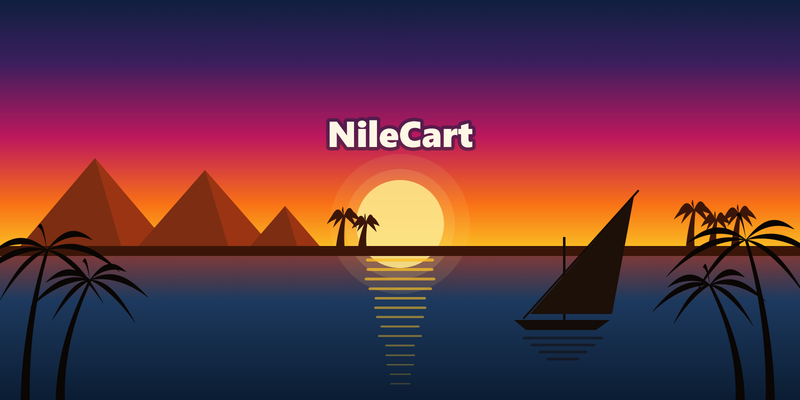
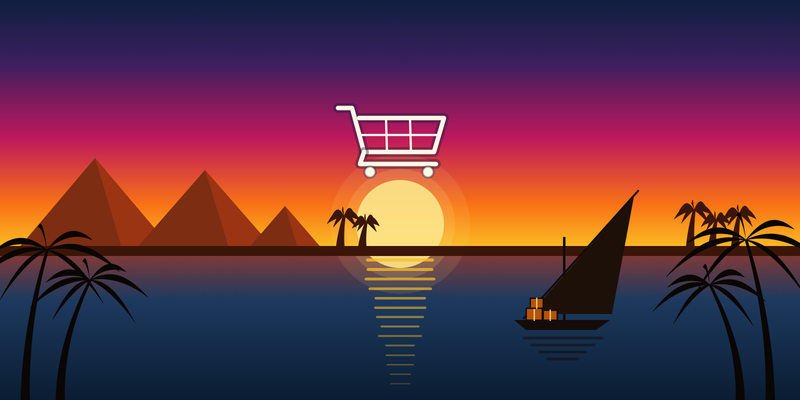
Kaggle cover: a shopping cart over the sun instead of text, parcels on the felucca

Changed region(s): [[0.4062, 0.24, 0.5938, 0.45], [0.6562, 0.72, 0.7188, 0.81]]

diff --git a/build/make_dataset_metadata.py b/build/make_dataset_metadata.py
@@ -206,17 +206,28 @@ def make_cover():
     for i in range(4):                                                                          # its reflection
         ax.plot([fx - 36 + i * 8, fx + 42 - i * 8], [fy - 8 - i * 7] * 2, color="#140c08", lw=2, alpha=.5,
                 solid_capstyle="round", zorder=5)
+    for bx, by, bw, bh in [(fx - 34, fy + 10, 16, 12), (fx - 17, fy + 10, 14, 10), (fx - 30, fy + 22, 13, 10)]:
+        ax.add_patch(plt.Rectangle((bx, by), bw, bh, facecolor="#b45309", edgecolor="#140c08", lw=1, zorder=6))
+        ax.plot([bx + bw / 2] * 2, [by, by + bh], color="#fde68a", lw=1, alpha=.8, zorder=6)    # parcel tape
 
     # palms in front, at both edges
     for x, h, lean in [(25, 150, 22), (60, 120, 30), (770, 160, -24), (740, 115, -30)]:
         palm(ax, x, 0, h, lean, "#0a0604", z=7)
 
-    # title: Kaggle's thumbnail is a square cut from somewhere around the middle, so only the name,
-    # small, in the exact centre (the sun sits right under it)
-    black = matplotlib.font_manager.FontProperties(fname=Path("C:/Windows/Fonts") / "seguibl.ttf")
-    shade = dict(path_effects=[matplotlib.patheffects.withStroke(linewidth=5, foreground="#101f4088")])
-    ax.text(W / 2, 262, "NileCart", color="#fff7e6", fontsize=26, fontproperties=black, ha="center", va="center",
-            zorder=9, **shade)
+    # a shopping cart in the sky over the sun, in the exact centre: Kaggle's thumbnail is a square cut
+    # from somewhere around the middle, so the cart survives any crop
+    cx, cy, s = W / 2, 262, 1.0
+    line = dict(color="#fff7e6", lw=3.2, solid_capstyle="round", solid_joinstyle="round", zorder=9,
+                path_effects=[matplotlib.patheffects.withStroke(linewidth=7, foreground="#101f4066")])
+    P = lambda pts: ([cx + x * s for x, _ in pts], [cy + y * s for _, y in pts])
+    ax.plot(*P([(-62, 30), (-48, 30), (-36, -14), (34, -14), (44, 20), (-41, 20)]), **line)     # handle + basket
+    ax.plot(*P([(-36, -14), (-40, -26), (36, -26)]), **line)                                 # bottom frame
+    for x in (-14, 10):                                                                      # basket grid
+        ax.plot(*P([(x, 20), (x + 1, -14)]), **{**line, "lw": 1.6, "path_effects": []})
+    ax.plot(*P([(-38, 3), (39, 3)]), **{**line, "lw": 1.6, "path_effects": []})
+    for x in (-30, 28):                                                                      # wheels
+        ax.add_patch(plt.Circle((cx + x * s, cy - 34 * s), 5.5 * s, facecolor="#fff7e6", edgecolor="#101f4066",
+                                lw=1.5, zorder=9))
 
     COVER.parent.mkdir(parents=True, exist_ok=True)
     tmp = COVER.with_suffix(".big.png")
